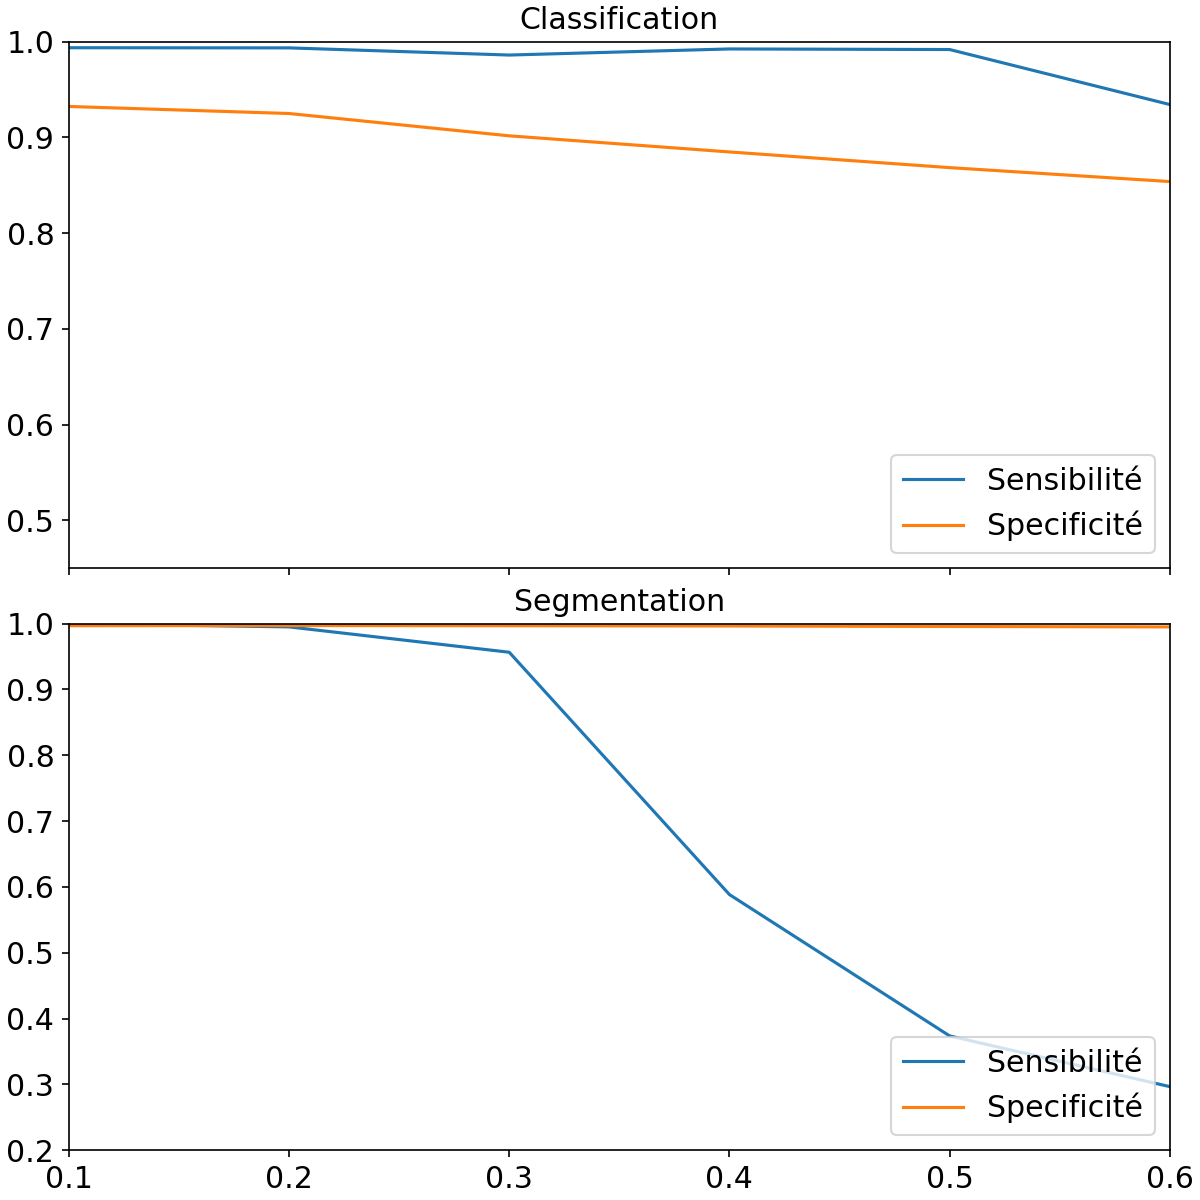
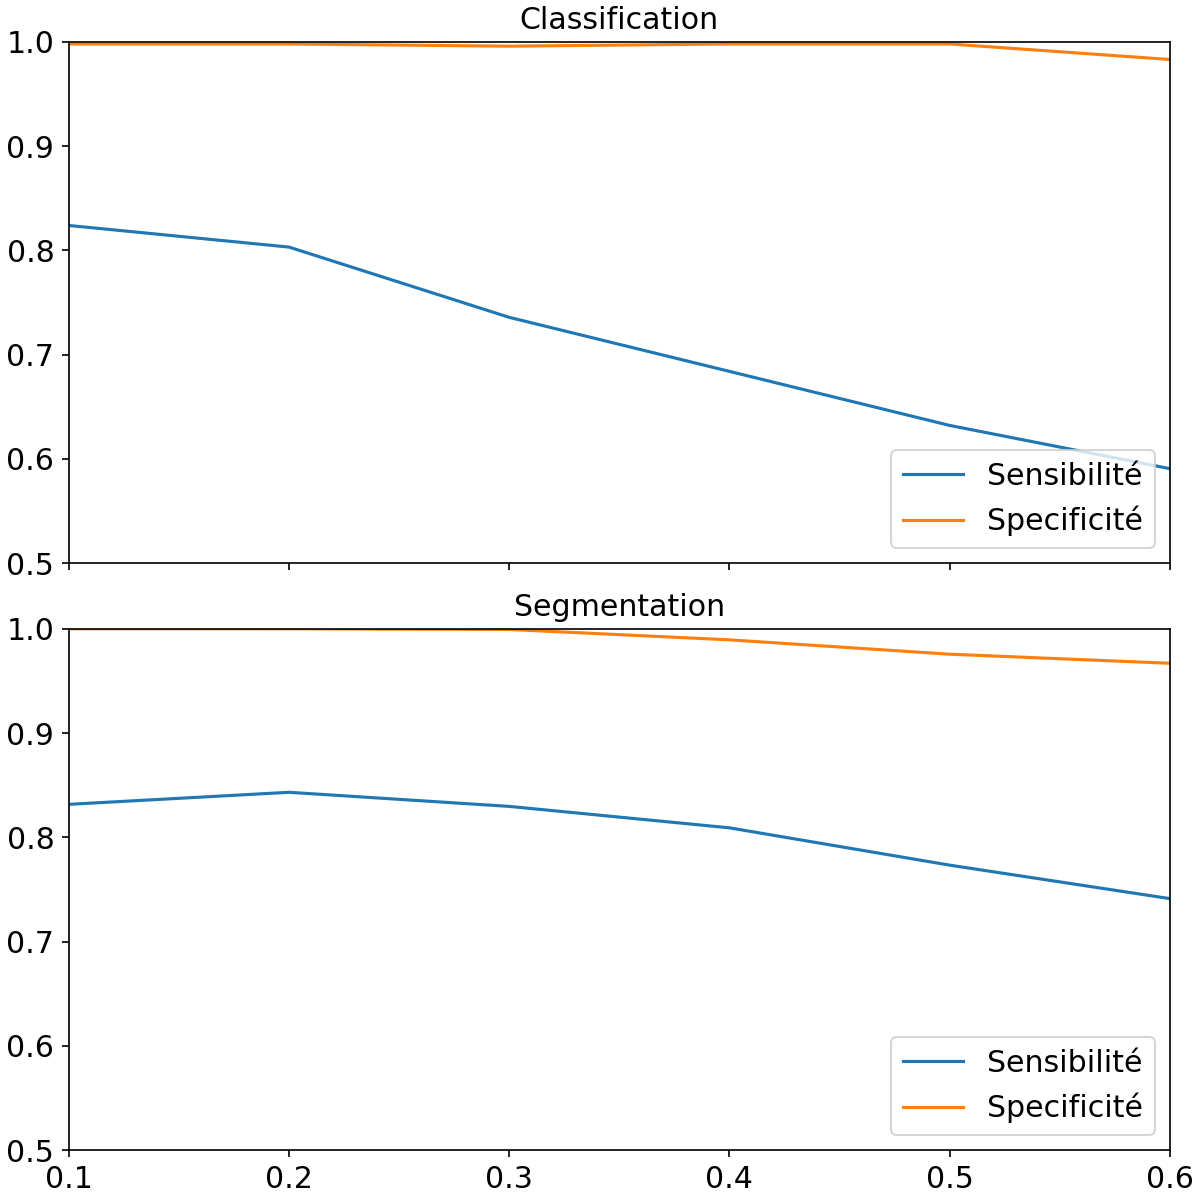
Correction de sensibilité et specificité

diff --git a/main.py b/main.py
@@ -1,11 +1,13 @@
+import os
+os.environ['TF_CPP_MIN_LOG_LEVEL'] = '2'
+os.environ['SM_FRAMEWORK'] = 'tf.keras'
 import ImageSynthetique as imsy
 import Dataset as ds
 import sys
 import time
 import matplotlib.pyplot as plt
-import os
 import numpy as np
-os.environ['TF_CPP_MIN_LOG_LEVEL'] = '2'
+
 
 
 def timing(part='', start=None):
@@ -92,6 +94,7 @@ def main():
             test.plot_label()
             niv_str = str(noise_lvl).replace('.', '_')
             plt.savefig(img_dir+'test_'+niv_str)
+            plt.close()
             var_time = timing('test image generation', var_time)
 
             pad_h = 16
@@ -100,6 +103,7 @@ def main():
             ds_test = ds.crops_to_dataset(test.crops, test.labels['classif'][:, :, 0], shuffle=False)
             test.calssification_predict(classif_model, ds_test, test.labels['classif'][:, :, 0].shape, threshold)
             plt.savefig(img_dir+'test_classif_'+niv_str)
+            plt.close()
             var_time = timing('classification prediction for noise level '+str(noise_lvl), var_time)
 
             index = int(noise_lvl*10) - 1
@@ -109,10 +113,10 @@ def main():
             # Segmenation
             test.sliding_window(window_size, pad_h=window_size, pad_v=window_size, threshold=0.8)
             test.segmentation_predict(segm_model, test.crops, threshold=0.99)
+            plt.savefig(img_dir+'test_segm_'+niv_str)
             _, m_segm['sensibilité'][index], m_segm['specificité'][index] = test.confusion_matrix('segm')
 
             var_time = timing('test_segm', var_time)
-            plt.savefig('test_predict_segm')
         np.savetxt('m_classif', np.array([m_classif['sensibilité'], m_classif['specificité']]))
         np.savetxt('m_segm', np.array([m_segm['sensibilité'], m_segm['specificité']]))
     elif sys.argv[1] == 'test_sens':
@@ -122,7 +126,7 @@ def main():
         m = np.loadtxt('m_segm')
         m_segm = {}
         m_segm['sensibilité'], m_segm['specificité'] = m[0], m[1]
-        
+
         noise_min, noise_max = float(sys.argv[2]), float(sys.argv[3])
         range = np.arange(noise_min, noise_max+0.1, 0.1).round(1)
 
@@ -130,13 +134,13 @@ def main():
         ax1.title.set_text('Classification')
         ax1.plot(range, m_classif['sensibilité'], label='Sensibilité')
         ax1.set_xlim(xmin=noise_min, xmax=noise_max)
-        ax1.set_ylim(ymin=0.45, ymax=1)
+        ax1.set_ylim(ymin=0.5, ymax=1)
         ax1.plot(range, m_classif['specificité'], label='Specificité')
         ax1.legend(loc='lower right')
 
         ax2.title.set_text('Segmentation')
         ax2.plot(range, m_segm['sensibilité'], label='Sensibilité')
-        ax2.set_ylim(ymin=0.2, ymax=1)
+        ax2.set_ylim(ymin=0.5, ymax=1)
         ax2.plot(range, m_segm['specificité'], label='Specificité')
         ax2.legend(loc='lower right')
         plt.savefig(img_dir+'sens_spec')

diff --git a/ImageSynthetique.py b/ImageSynthetique.py
@@ -350,6 +350,7 @@ class Image:
                 x_p = (col+1)*self.window_size
                 predicted_image[y_m:y_p,x_m:x_p] = predicted[row,col]
         self.predicted['segm'] = np.where(predicted_image > threshold, 1, 0)
+        plt.figure(figsize=(16, 7.5))
         plt.imshow(self.predicted['segm'])
         plt.imshow(self.segmentation, alpha=0.5)
         plt.xticks(np.arange(0,self.width, 32))
@@ -423,8 +424,8 @@ class Image:
         # plt.ylabel('Label réel')
         # plt.xlabel('Label prédit')
         print(cf_matrix)
-        sensibilite = cf_matrix[1, 1] / (cf_matrix[1, 1] + cf_matrix[0, 1])
-        specificite = cf_matrix[0, 0] / (cf_matrix[0, 0] + cf_matrix[1, 0])
+        sensibilite = cf_matrix[1, 1] / (cf_matrix[1, 1] + cf_matrix[1, 0])
+        specificite = cf_matrix[0, 0] / (cf_matrix[0, 0] + cf_matrix[0, 1])
         print('Sensibilité : '+str(sensibilite))
         print('Specificité : '+str(specificite))
         return cf_matrix, sensibilite, specificite

diff --git a/Dataset.py b/Dataset.py
@@ -3,7 +3,6 @@ import tensorflow as tf
 from tensorflow import keras
 import numpy as np
 import segmentation_models as sm
-sm.framework()
 
 
 def to_one_hot(image, label):
